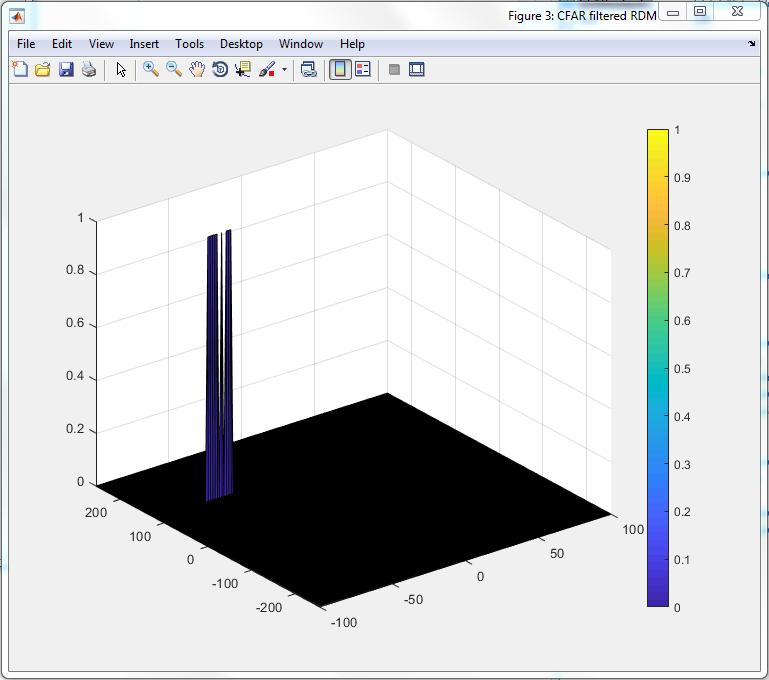
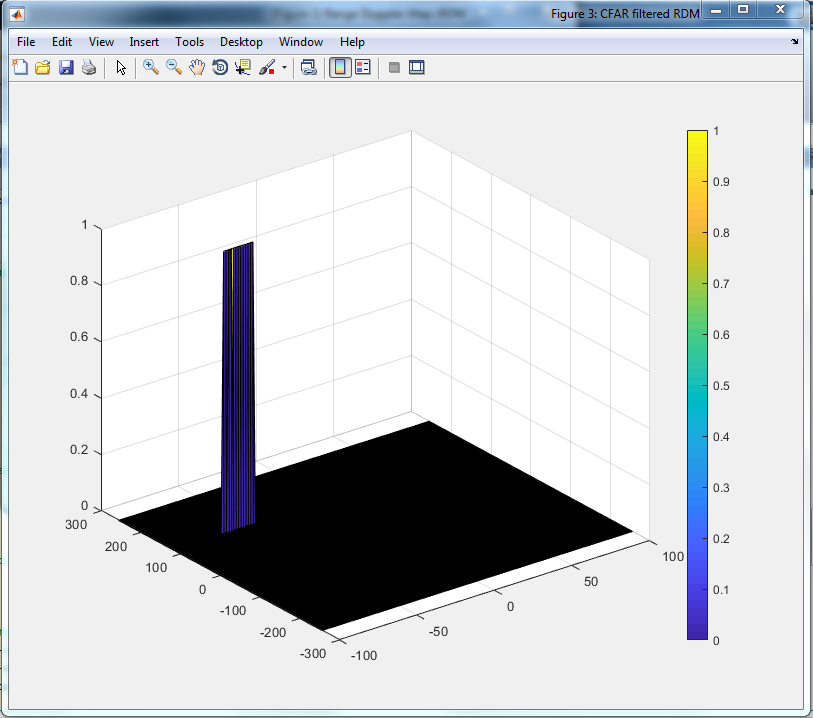
CFAR Peak Issue Modified

diff --git a/radar-target-generation-and-detection.m b/radar-target-generation-and-detection.m
@@ -152,8 +152,8 @@ nCTv = 5;
 % *%TODO* :
 %Select the number of Guard Cells in both dimensions around the Cell under 
 %test (CUT) for accurate estimation
-nCGdist = 4;
-nCGv = 2;
+nCGdist = 5;
+nCGv = 4;
 
 % *%TODO* :
 % offset the threshold by SNR value in dB
